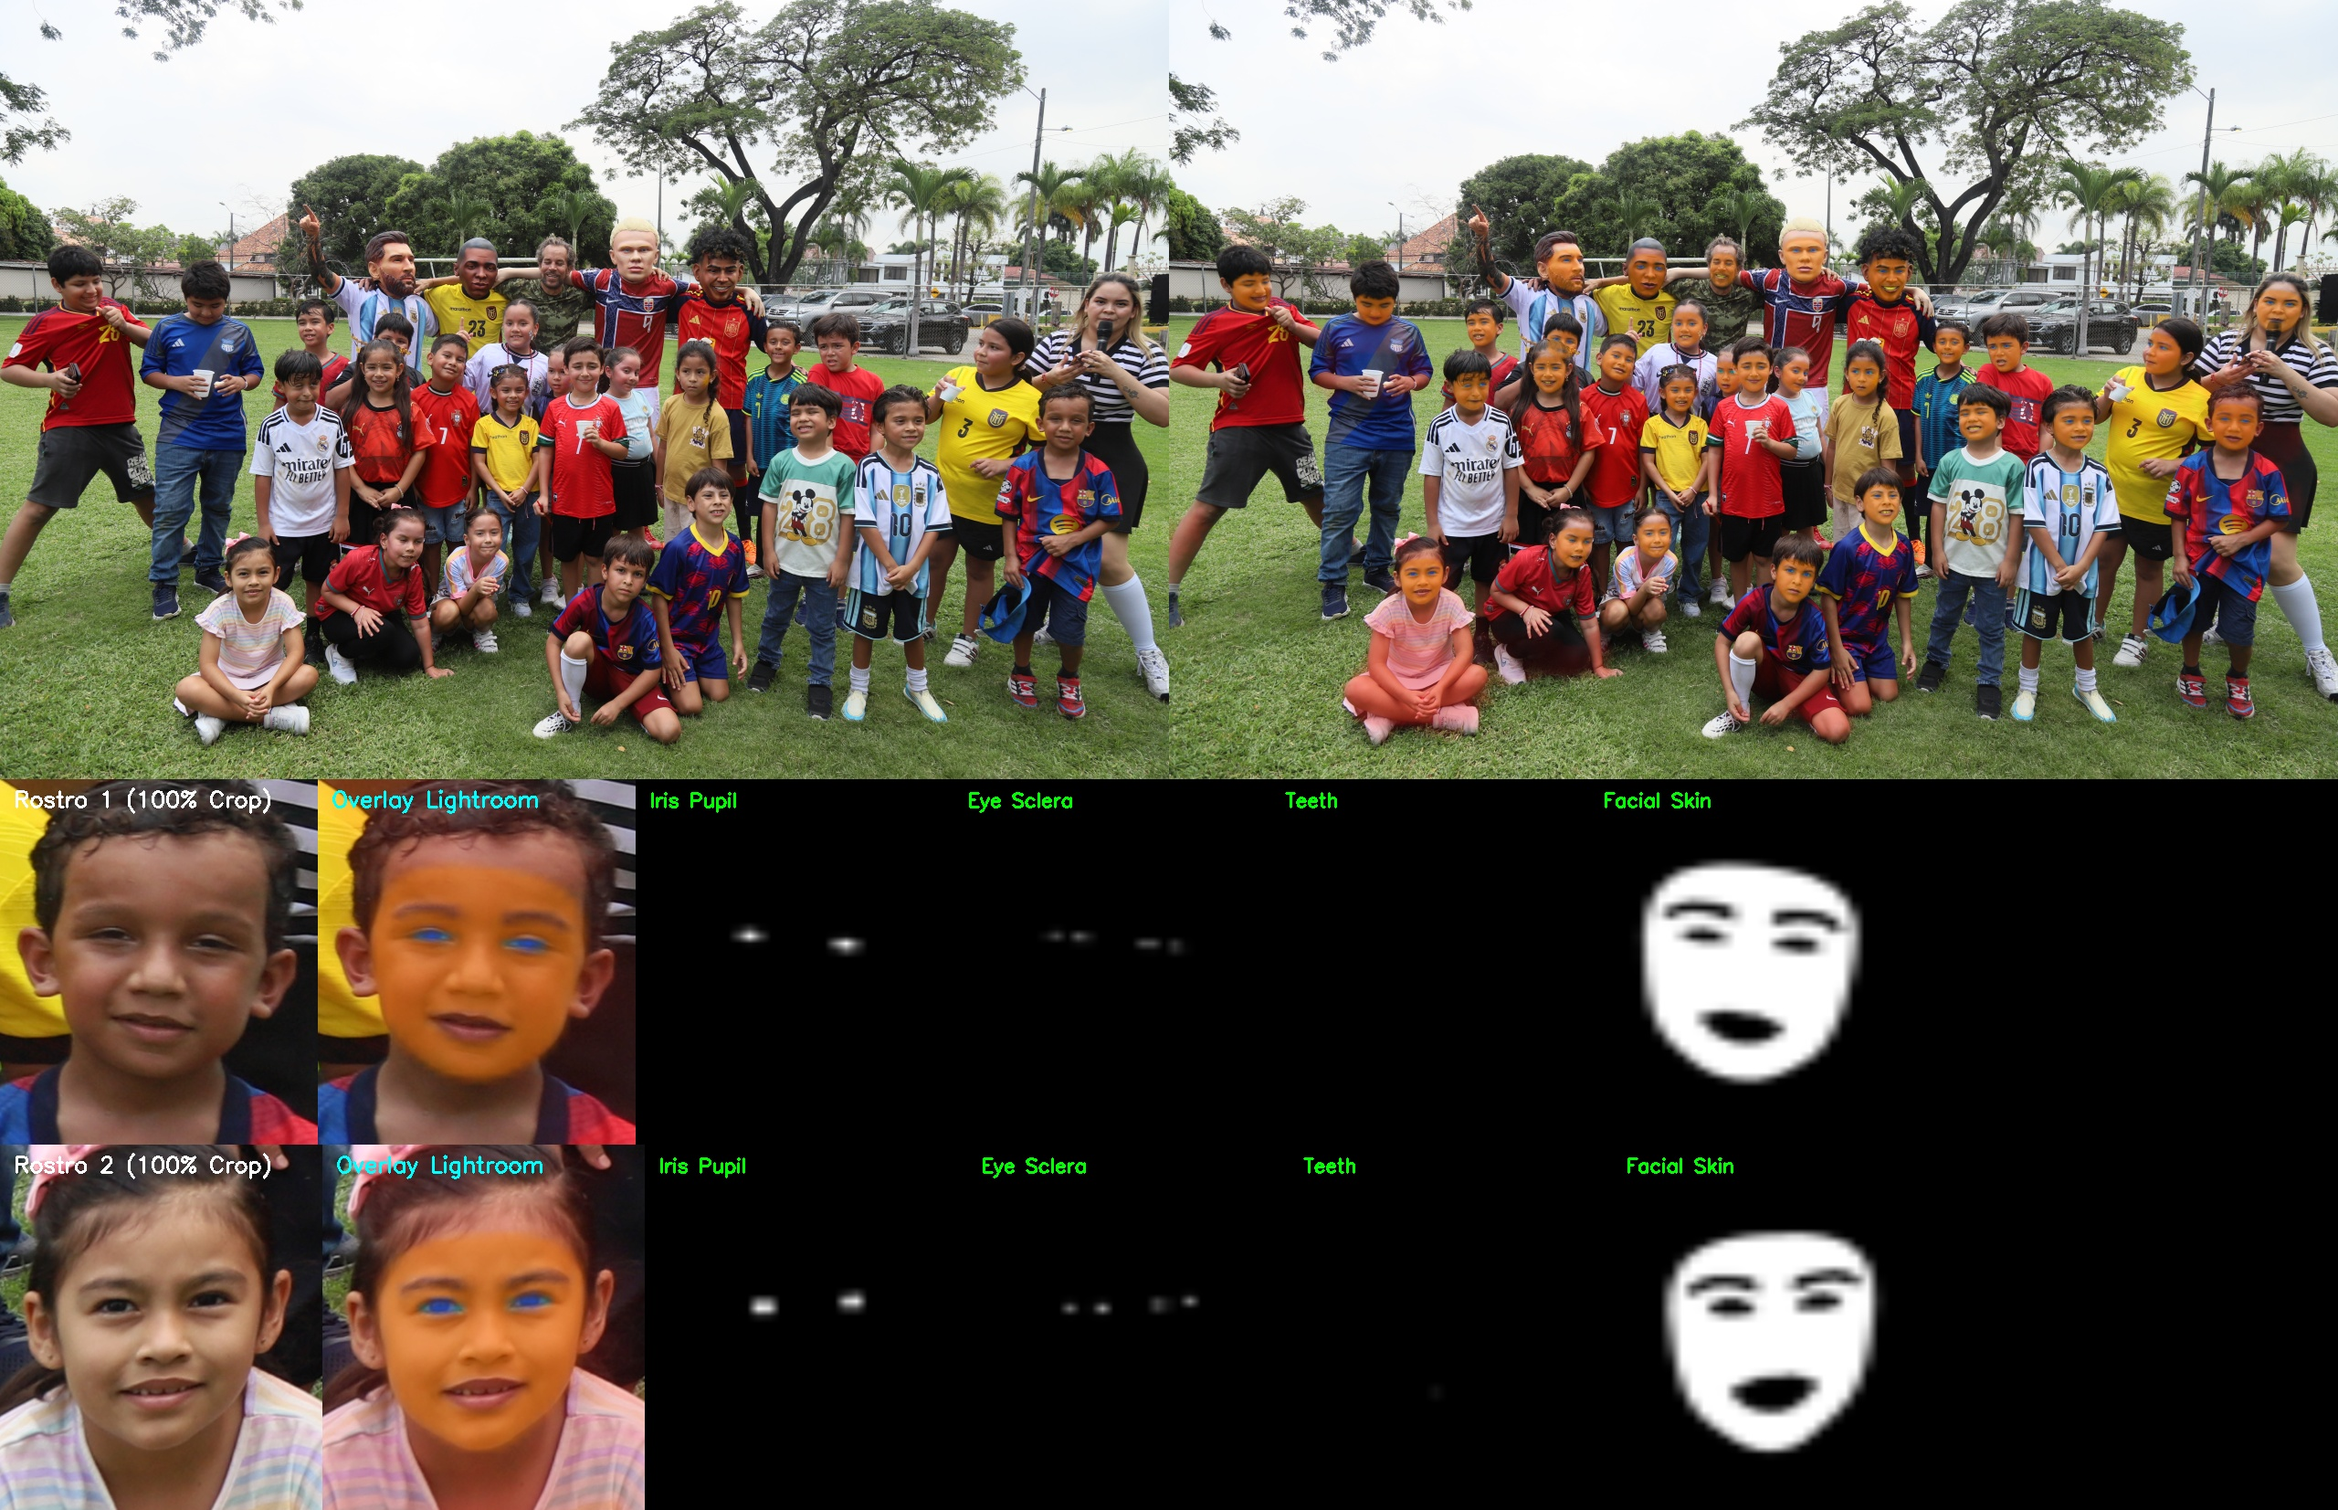
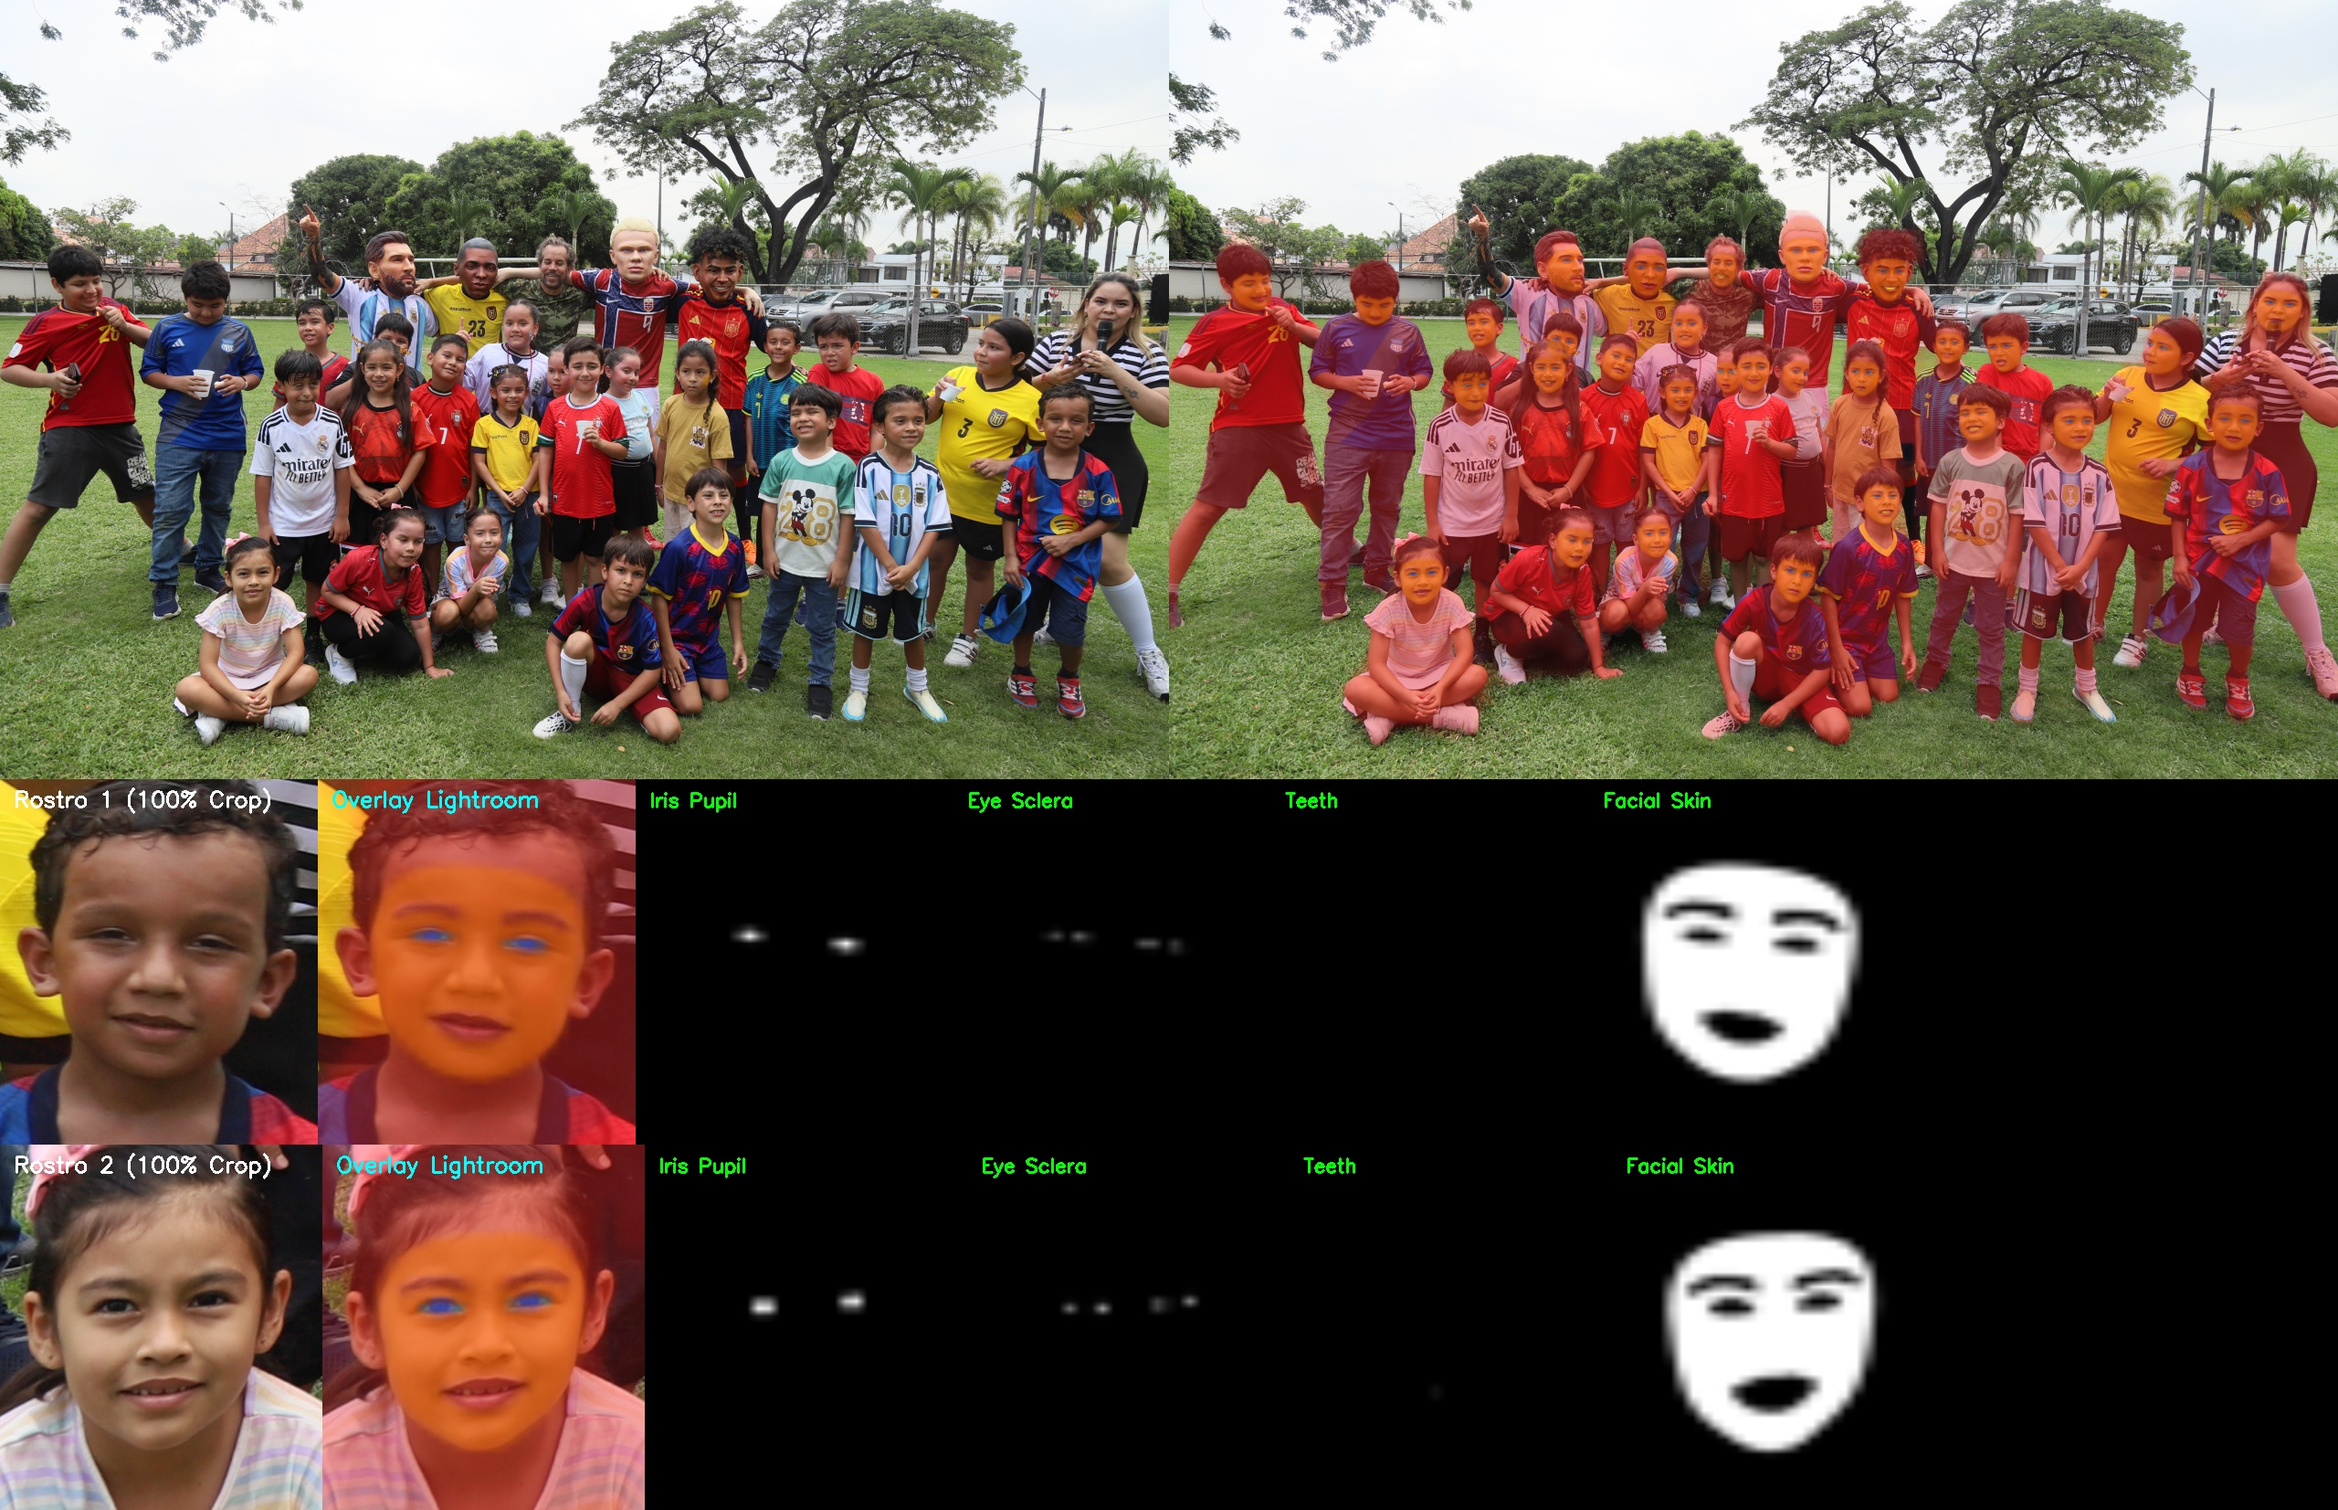
fix(masks): tiled hybrid subject segmentation for complete body and clothes in massive groups

Changed region(s): [[0.5, 0.1234, 1.0, 0.4936], [0.125, 0.4936, 0.2812, 1.0]]

diff --git a/backend/services/mask_generator.py b/backend/services/mask_generator.py
@@ -120,55 +120,7 @@ def generate_all_masks(img_path: str, output_dir: str):
     teeth_full = np.zeros((h0, w0), dtype=np.uint8)
 
     # -------------------------------------------------------------
-    # 1. Sujeto / Pop: Segmentación precisa con Selfie Segmenter
-    # -------------------------------------------------------------
-    person_segmented = False
-    if SEGMENTER_PATH.exists():
-        try:
-            import mediapipe as mp
-            from mediapipe.tasks import python as mp_python
-            from mediapipe.tasks.python import vision
-
-            base_opts = mp_python.BaseOptions(model_asset_path=str(SEGMENTER_PATH))
-            opts = vision.ImageSegmenterOptions(
-                base_options=base_opts,
-                running_mode=vision.RunningMode.IMAGE,
-                output_confidence_masks=True
-            )
-            with vision.ImageSegmenter.create_from_options(opts) as segmenter:
-                scale = 1024.0 / max(h0, w0)
-                sw, sh = int(round(w0 * scale)), int(round(h0 * scale))
-                small = cv2.resize(img_rgb, (sw, sh), interpolation=cv2.INTER_AREA)
-                mp_img = mp.Image(image_format=mp.ImageFormat.SRGB, data=small)
-                res = segmenter.segment(mp_img)
-                if res.confidence_masks:
-                    conf = res.confidence_masks[0].numpy_view()
-                    # Rescalar a tamaño completo con bordes suaves
-                    conf_u8 = (np.clip(conf, 0.0, 1.0) * 255.0).astype(np.uint8)
-                    person_full = cv2.resize(conf_u8, (w0, h0), interpolation=cv2.INTER_LINEAR)
-                    person_segmented = True
-        except Exception as e:
-            sys.stderr.write(f"Warning: selfie segmenter failed: {e}\n")
-
-    if not person_segmented:
-        # Fallback YOLOv8 bounding boxes
-        person_boxes = detect_persons(img_rgb)
-        if person_boxes:
-            for (bx, by, bw, bh) in person_boxes:
-                x0, y0 = max(0, bx), max(0, by)
-                x1, y1 = min(w0, bx + bw), min(h0, by + bh)
-                if x1 <= x0 or y1 <= y0:
-                    continue
-                sub_w, sub_h = x1 - x0, y1 - y0
-                cx, cy = (x0 + x1) // 2, (y0 + y1) // 2
-                p_layer = np.zeros((h0, w0), dtype=np.uint8)
-                cv2.ellipse(p_layer, (cx, cy), (sub_w // 2, sub_h // 2), 0, 0, 360, 255, -1)
-                ksize = max(5, int(min(sub_w, sub_h) * 0.08) | 1)
-                p_layer = cv2.GaussianBlur(p_layer, (ksize, ksize), 0)
-                person_full = np.maximum(person_full, p_layer)
-
-    # -------------------------------------------------------------
-    # 2. Detección Facial con YuNet y Filtro NMS
+    # 1. Detección Facial con YuNet y Filtro NMS
     # -------------------------------------------------------------
     img_bgr = cv2.cvtColor(img_rgb, cv2.COLOR_RGB2BGR)
     confirmed_faces = []
@@ -184,6 +136,79 @@ def generate_all_masks(img_path: str, output_dir: str):
             scores = [float(f[14]) for f in raw_faces]
             keep_idx = nms_boxes(boxes, scores, iou_thresh=0.35)
             confirmed_faces = [raw_faces[i] for i in keep_idx]
+
+    # -------------------------------------------------------------
+    # 2. Sujeto / Pop: Segmentación Híbrida (Global + Crops YOLOv8 + Torso YuNet)
+    # -------------------------------------------------------------
+    if SEGMENTER_PATH.exists():
+        try:
+            import mediapipe as mp
+            from mediapipe.tasks import python as mp_python
+            from mediapipe.tasks.python import vision
+
+            base_opts = mp_python.BaseOptions(model_asset_path=str(SEGMENTER_PATH))
+            opts = vision.ImageSegmenterOptions(
+                base_options=base_opts,
+                running_mode=vision.RunningMode.IMAGE,
+                output_confidence_masks=True
+            )
+            with vision.ImageSegmenter.create_from_options(opts) as segmenter:
+                # 2.1 Pase global para planos medios / sujetos principales
+                scale = 1024.0 / max(h0, w0)
+                sw, sh = int(round(w0 * scale)), int(round(h0 * scale))
+                small = cv2.resize(img_rgb, (sw, sh), interpolation=cv2.INTER_AREA)
+                mp_img = mp.Image(image_format=mp.ImageFormat.SRGB, data=small)
+                res = segmenter.segment(mp_img)
+                if res.confidence_masks:
+                    conf = res.confidence_masks[0].numpy_view()
+                    conf_u8 = (np.clip(conf, 0.0, 1.0) * 255.0).astype(np.uint8)
+                    person_full = cv2.resize(conf_u8, (w0, h0), interpolation=cv2.INTER_LINEAR)
+
+                # 2.2 Segmentación por recorte para cuerpos YOLOv8 (grupos y sujetos lejanos)
+                person_boxes = detect_persons(img_rgb)
+                for bx, by, bw, bh in person_boxes:
+                    mx, my = int(bw * 0.10), int(bh * 0.10)
+                    x0 = max(0, bx - mx)
+                    y0 = max(0, by - my)
+                    x1 = min(w0, bx + bw + mx)
+                    y1 = min(h0, by + bh + my)
+                    crop = img_rgb[y0:y1, x0:x1]
+                    if crop.size == 0:
+                        continue
+                    ch, cw = crop.shape[:2]
+                    cscale = 512.0 / max(ch, cw)
+                    c_small = cv2.resize(crop, (max(1, int(round(cw * cscale))), max(1, int(round(ch * cscale)))), interpolation=cv2.INTER_AREA)
+                    mp_crop = mp.Image(image_format=mp.ImageFormat.SRGB, data=c_small)
+                    res_crop = segmenter.segment(mp_crop)
+                    if res_crop.confidence_masks:
+                        cmask = res_crop.confidence_masks[0].numpy_view()
+                        cmask_u8 = (np.clip(cmask, 0.0, 1.0) * 255.0).astype(np.uint8)
+                        cmask_full = cv2.resize(cmask_u8, (cw, ch), interpolation=cv2.INTER_LINEAR)
+                        person_full[y0:y1, x0:x1] = np.maximum(person_full[y0:y1, x0:x1], cmask_full)
+
+                # 2.3 Segmentación de torso para rostros YuNet no cubiertos por cajas de personas
+                for f in confirmed_faces:
+                    fx, fy, fw, fh = int(f[0]), int(f[1]), int(f[2]), int(f[3])
+                    fcx, fcy = int(fx + fw / 2), int(fy + fh / 2)
+                    if person_full[min(h0 - 1, max(0, fcy)), min(w0 - 1, max(0, fcx))] < 100:
+                        bx = int(max(0, fcx - fw * 1.5))
+                        by = int(max(0, fy - fh * 0.5))
+                        bw = int(min(w0 - bx, fw * 3.0))
+                        bh = int(min(h0 - by, fh * 4.5))
+                        crop = img_rgb[by:by + bh, bx:bx + bw]
+                        if crop.size > 0:
+                            ch, cw = crop.shape[:2]
+                            cscale = 512.0 / max(ch, cw)
+                            c_small = cv2.resize(crop, (max(1, int(round(cw * cscale))), max(1, int(round(ch * cscale)))), interpolation=cv2.INTER_AREA)
+                            mp_crop = mp.Image(image_format=mp.ImageFormat.SRGB, data=c_small)
+                            res_crop = segmenter.segment(mp_crop)
+                            if res_crop.confidence_masks:
+                                cmask = res_crop.confidence_masks[0].numpy_view()
+                                cmask_u8 = (np.clip(cmask, 0.0, 1.0) * 255.0).astype(np.uint8)
+                                cmask_full = cv2.resize(cmask_u8, (cw, ch), interpolation=cv2.INTER_LINEAR)
+                                person_full[by:by + bh, bx:bx + bw] = np.maximum(person_full[by:by + bh, bx:bx + bw], cmask_full)
+        except Exception as e:
+            sys.stderr.write(f"Warning: selfie segmenter failed: {e}\n")
 
     # -------------------------------------------------------------
     # 3. MediaPipe FaceLandmarker (478 landmarks)
@@ -365,6 +390,9 @@ def generate_all_masks(img_path: str, output_dir: str):
         with open(bin_path, "wb") as f:
             f.write(resized.tobytes())
         return str(png_path)
+
+    # Asegurar que toda piel facial sea parte de la máscara de sujeto
+    person_full = np.maximum(person_full, skin_full)
 
     p_saved = save_layer(person_full, "person")
     sk_saved = save_layer(skin_full, "facial_skin")

diff --git a/.agents/plans/active-plan.md b/.agents/plans/active-plan.md
@@ -1,48 +1,31 @@
-# Plan Operativo: Respaldo GutoCraft y Procesamiento Masivo en NAS
+# Plan de Corrección: Segmentación de Cuerpo Completo en Grupos Masivos (Paridad Sujeto Lightroom)
 
-## 1. Alcance y Objetivos
-1. **Cierre y Respaldo de GutoCraft:**
-   - Archivar las fotos de auditoría en `docs/audit_mattes/`.
-   - Commit y push en `GUTOFLOW` (`ai-culling-system`).
-   - Configuración de `GutoCraft` como repositorio independiente en GitHub (`guilleguto-source/GutoCraft`).
-2. **Procesamiento Masivo en Producción (1,951 fotos en NAS):**
-   - Carpeta 1: `\\MYCLOUDEX2ULTRA\Public\Guto Gutierrez\2026\2026-09-26\Giler` (436 fotos)
-   - Carpeta 2: `\\MYCLOUDEX2ULTRA\Public\Guto Gutierrez\2026\2026-10-03\Dayana` (679 fotos)
-   - Carpeta 3: `\\MYCLOUDEX2ULTRA\Public\Guto Gutierrez\2026\2026-10-03\Gioconda` (836 fotos)
+## 1. Causa Raíz Identificada
+- En `IMG_0257` (30+ niños en plano general), `selfie_segmenter.tflite` solo cubre el 3.4% de la imagen porque está optimizado para 1-2 personas en plano medio/primer plano.
+- En el collage de auditoría (`IMG_0257_audit.jpg`), solo se observaba tinte en los rostros porque correspondía a la capa `facial_skin` (YuNet + FaceMesh), mientras que `person.png` (Sujeto Pop) estaba casi vacía.
 
 ---
 
-## 2. Fases de Ejecución
-
-```
-[Fase 1: Respaldo y Git GutoCraft]
-  ├── Archivar 4 collages en docs/audit_mattes/
-  ├── Commit + Push en repo principal GUTOFLOW
-  └── Commit en gutoflow-rust/lightcraft -> remote GutoCraft
-        │
-        ▼
-[Fase 2: Procesamiento Masivo en Lote (GutoFlow + LightCraft)]
-  ├── 1. Ingesta, culling y métricas de enfoque en GUTOFLOW
-  ├── 2. Generación neural de los 5 planos de máscaras IA (GutoCraft)
-  ├── 3. Aplicación de recetas de revelado con capas locales:
-  │      - Suavizado sutil de piel (Texture/Clarity negativo)
-  │      - Realce de iris (+Exposure, +Clarity)
-  │      - Blanqueamiento de dientes (-Saturation, +Exposure)
-  │      - Esclera limpia (-Saturation suave)
-  │      - Pop de sujeto (+Exposure sutil, contraste)
-  └── 4. Escritura de sidecars XMP compatibles con Adobe Lightroom
-```
+## 2. Arquitectura Propuesta: Tiled Hybrid Subject Segmentation
+Para igualar la selección de "Sujeto" de Lightroom en grupos masivos:
+1. **Detección Global de Personas:** Ejecutar `person_yolov8n.onnx` (`detect_persons`) para localizar todos los cuerpos de la escena (en `IMG_0257` detecta 20 cuerpos completos).
+2. **Segmentación por Recorte (Tiled Segmentation):**
+   - Para cada persona detectada, extraer el crop con 10% de margen.
+   - Enviar cada crop individual a `selfie_segmenter` (donde cada niño ocupa el 100% del frame, permitiendo que el modelo opere en su rango óptimo de confianza con mean > 0.45 y max 1.0).
+3. **Anatomical Face Fallback:** Para cualquier rostro YuNet no englobado en una caja de persona, proyectar la extensión anatómica del torso y segmentar el recorte.
+4. **Fusión Máxima:** Combinar la máscara global con todos los recortes segmentados (`np.maximum`), preservando alpha continuo y bordes limpios sin invadir el césped.
 
 ---
 
-## 3. Estado de Ejecución por Carpeta del NAS
-- **Giler (407 fotos JPG):** ✅ Completado (407/407 XMP + máscaras binarias generadas, 0 errores).
-- **Dayana (679 fotos CR2 RAW):** ✅ Completado (679/679 XMP + máscaras binarias generadas, 0 errores).
-- **Gioconda (836 fotos JPG):** ✅ Completado (836/836 XMP + máscaras binarias generadas, 0 errores).
-- **TOTAL:** ✅ **1,922 / 1,922 fotos procesadas con éxito (0 fallos).**
+## 3. Archivos Afectados
+- `backend/services/mask_generator.py`: Lógica de `person.png` con soporte híbrido global + recortes YOLOv8/YuNet.
+- `backend/scripts/run_mask_suite.py`: Re-generación del collage de auditoría `IMG_0257_audit.jpg`.
+- `docs/audit_mattes/IMG_0257_audit.jpg`: Actualización del registro visual.
 
 ---
 
-## 4. Repositorio Remoto GutoCraft
-- Repo local sincronizado en rama `gutoflow` (`da36d64`).
-- Pendiente: Crear `GutoCraft` en GitHub (https://github.com/new) para habilitar el push final.
+## 4. Checklist de Validación
+- [ ] Implementar función de segmentación por baldosas en `mask_generator.py`.
+- [ ] Ejecutar prueba de verificación en `IMG_0257.JPG`.
+- [ ] Generar nuevo collage de auditoría `IMG_0257_audit.jpg` con cuerpos y ropa tintados en rojo/naranja.
+- [ ] Re-procesar sidecars XMP de la sesión `Giler` en el NAS.
